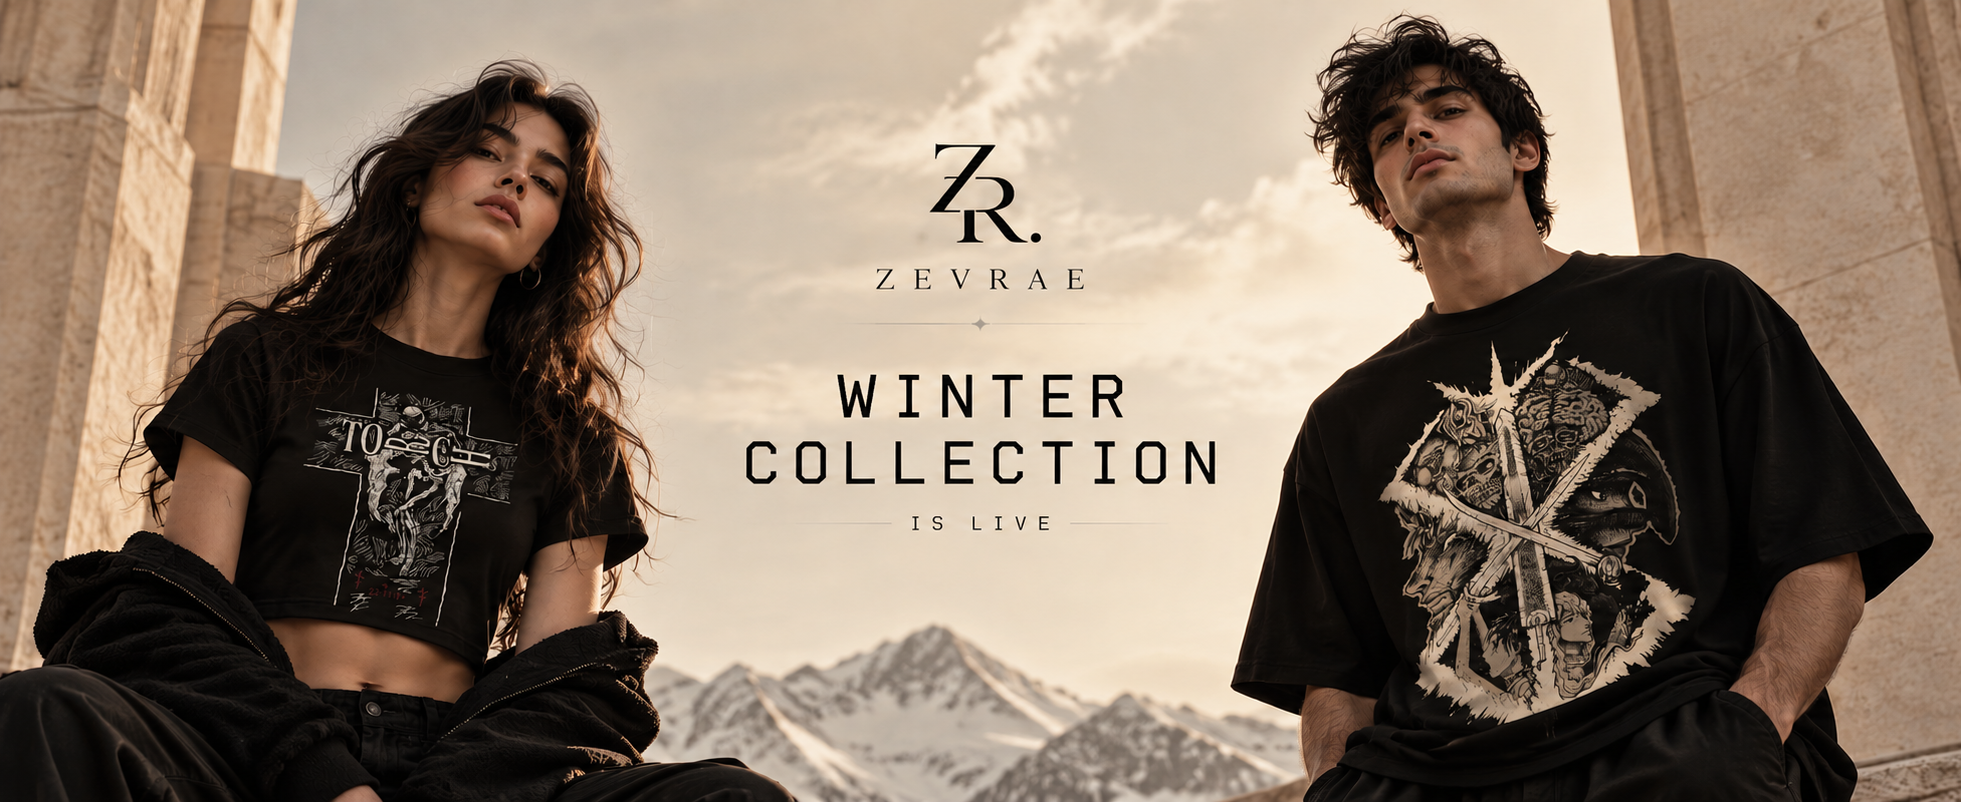
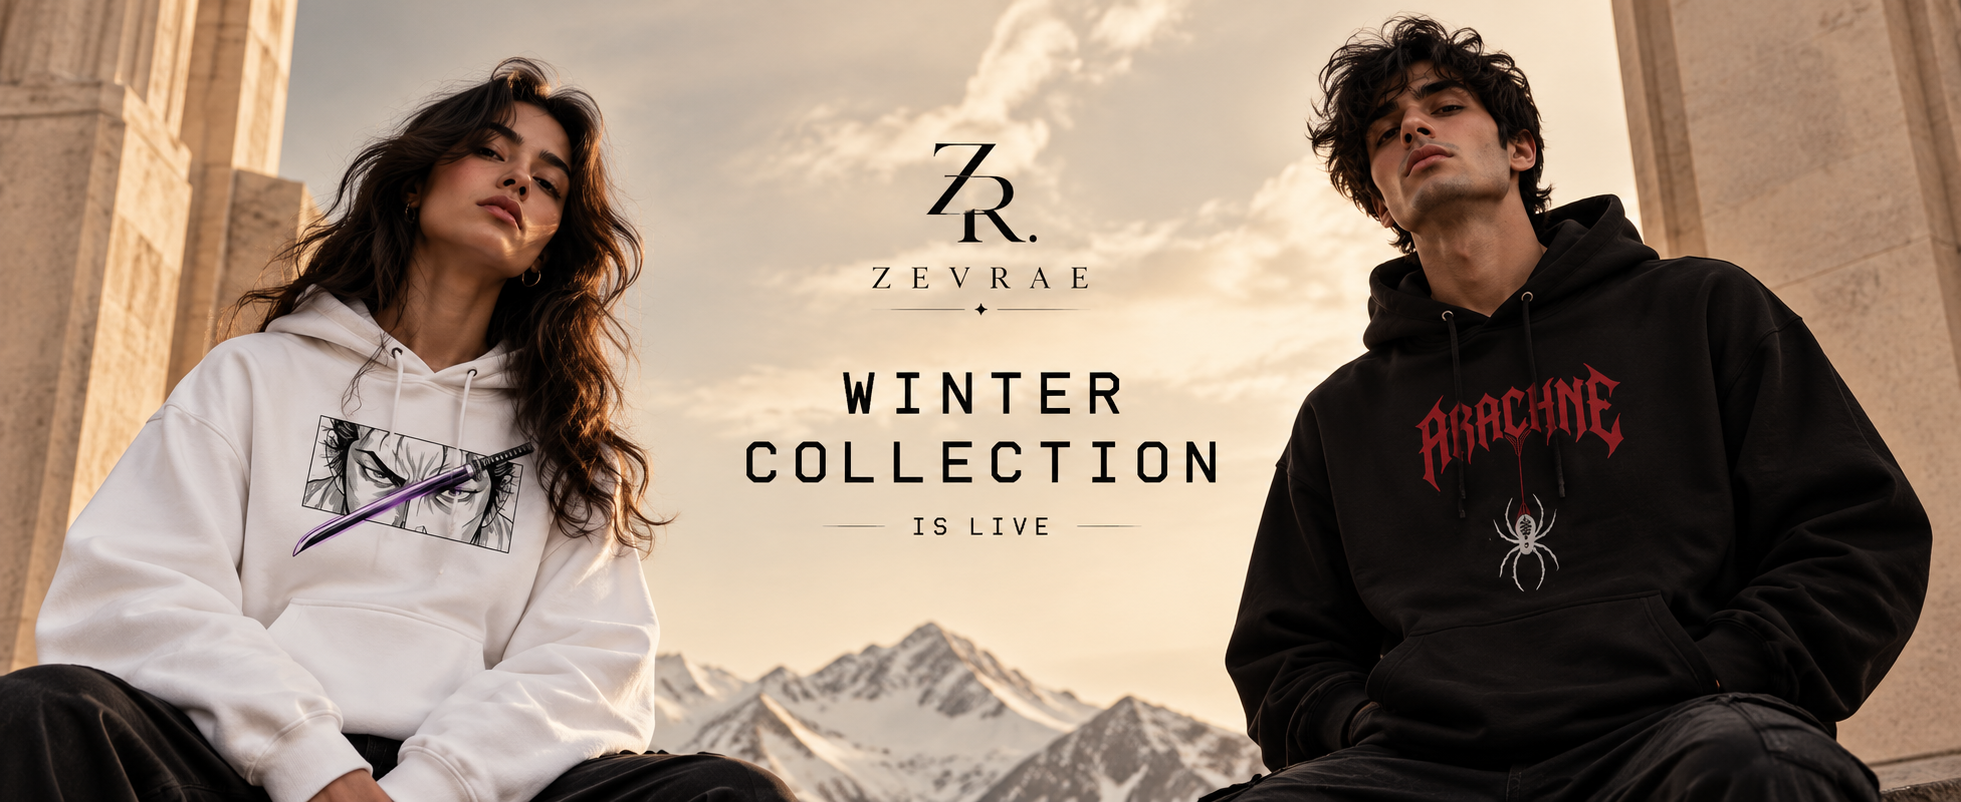
created hoodies product grid

diff --git a/src/ProductGrid.tsx b/src/ProductGrid.tsx
@@ -21,17 +21,21 @@ import menRingImg from "./assets/men ring.webp";
 import menPendantImg from "./assets/men pendant.webp";
 import menEarringsImg from "./assets/men earrings.webp";
 import menBraceletImg from "./assets/men bracelet.webp";
+import blackHoodieMen from "./assets/blackhoodiemen.png";
+import greyHoodieWomen from "./assets/greyhoodiewomen.png";
 
 const resolveImg = (img: any): string => (img && typeof img === 'object' && 'src' in img ? img.src : img || '');
 
 const mensCategories = [
   { id: 'tshirts', name: 'TSHIRTS', alt: "ZEVRAE men's T-shirts collection", image: menTshirts, path: '/men/tshirts' },
+  { id: 'hoodies', name: 'HOODIES', alt: "ZEVRAE men's hoodies collection", image: blackHoodieMen, path: '/men/hoodies' },
   { id: 'lowers', name: 'LOWERS', alt: "ZEVRAE men's lowers collection", image: 'https://i.ibb.co/RGyBrL7q/THE-DRAGON-LOWER-FRONT.jpg', path: '/men/lowers' },
   { id: 'henleys', name: 'HENLEYS', alt: "ZEVRAE men's henley collection", image: menHenley, path: '/men/henleys' },
 ];
 
 const womensCategories = [
   { id: 'tshirts', name: 'TSHIRTS', alt: "ZEVRAE women's tops and T-shirts", image: womenTops, path: '/women/tshirts' },
+  { id: 'hoodies', name: 'HOODIES', alt: "ZEVRAE women's hoodies collection", image: greyHoodieWomen, path: '/women/hoodies' },
   { id: 'lowers', name: 'LOWERS', alt: "ZEVRAE women's lowers collection", image: 'https://images.unsplash.com/photo-1506629082955-511b1aa562c8?q=80&w=1920&auto=format&fit=crop', path: '/women/lowers' }
 ];
 
@@ -202,7 +206,9 @@ export async function getOrFetchAllProducts(): Promise<any[]> {
             ? 'lower'
             : (p.subcategory?.toLowerCase()?.includes('henley')
               ? 'henley'
-              : (p.subcategory?.toLowerCase()?.includes('shirt') ? 'tshirt' : (p.subcategory?.toLowerCase() || 'tshirt'))),
+              : (p.subcategory?.toLowerCase()?.includes('hoodie')
+                ? 'hoodie'
+                : (p.subcategory?.toLowerCase()?.includes('shirt') ? 'tshirt' : (p.subcategory?.toLowerCase() || 'tshirt')))),
           sizes: p.sizes,
           discount: p.discount || (p.compare_price && p.compare_price > p.price
             ? Math.round(((p.compare_price - p.price) / p.compare_price) * 100)
@@ -235,7 +241,7 @@ export type ProductGridProps = {
   | 'all' | 'men' | 'women' | 'jewellery' | 'accessories' | '' | 'search'
   | 'rings' | 'pendants' | 'earrings' | 'bracelet' | 'keychain' | 'keychains'
   | 'toys' | 'soft-toys' | 'ear'
-  | 'men-tshirts' | 'men-lowers' | 'men-henleys' | 'women-tshirts' | 'women-lowers' | 'unisex'
+  | 'men-tshirts' | 'men-hoodies' | 'men-lowers' | 'men-henleys' | 'women-tshirts' | 'women-hoodies' | 'women-lowers' | 'unisex'
   | 'jewellery-men' | 'jewellery-women'
   | 'men-rings' | 'men-pendants' | 'men-bracelets' | 'men-earrings'
   | 'women-rings' | 'women-pendants' | 'women-bracelets' | 'women-earrings';
@@ -303,20 +309,26 @@ function ProductGridContent({
   const isMenFilter = categoryFilter.startsWith('men') && !categoryFilter.startsWith('men-rings') && !categoryFilter.startsWith('men-pendants') && !categoryFilter.startsWith('men-bracelets') && !categoryFilter.startsWith('men-earrings');
   const isTshirtFilter = categoryFilter.includes('tshirts');
   const isHenleyFilter = categoryFilter.includes('henleys');
+  const isHoodieFilter = categoryFilter.includes('hoodies');
 
   const getApparelType = useCallback(() => {
     if (isTshirtFilter) return 'tshirt';
     if (isHenleyFilter) return 'henley';
+    if (isHoodieFilter) return 'hoodie';
     return 'lower';
-  }, [isTshirtFilter, isHenleyFilter]);
+  }, [isTshirtFilter, isHenleyFilter, isHoodieFilter]);
 
   const activeSubcategoryProducts = useMemo(() => {
     const apparelType = getApparelType();
     return dbProducts.filter(p =>
       (p.gender === (isMenFilter ? 'men' : 'women') || p.gender === 'unisex') &&
-      (isHenleyFilter ? (p.type === 'henley' || p.type === 'henleys') : p.type === apparelType)
+      (isHenleyFilter
+        ? (p.type === 'henley' || p.type === 'henleys')
+        : isHoodieFilter
+          ? (p.type === 'hoodie' || p.type === 'hoodies')
+          : p.type === apparelType)
     );
-  }, [dbProducts, isMenFilter, isHenleyFilter, getApparelType]);
+  }, [dbProducts, isMenFilter, isHenleyFilter, isHoodieFilter, getApparelType]);
 
   // ─── Gendered jewellery helpers ───────────────────────────────────────────────
   const JEWELLERY_MEN_SUBS = useMemo(() => ['men-rings', 'men-pendants', 'men-bracelets', 'men-earrings'], []);
@@ -373,20 +385,20 @@ function ProductGridContent({
           >
             <SectionHeading eyebrow="LATEST DROPS" title="Men's Collection" />
             <div className="max-w-[1400px] mx-auto px-6 md:px-12">
-              <div className="grid grid-cols-1 sm:grid-cols-3 gap-5 md:gap-6">
+              <div className="grid grid-cols-1 sm:grid-cols-2 lg:grid-cols-4 gap-5 md:gap-6">
                 {mensCategories.map((item, i) => (
                   <motion.div
                     key={item.id}
                     initial={{ opacity: 0, y: 30 }}
                     whileInView={{ opacity: 1, y: 0 }}
                     viewport={{ once: true, margin: "-50px" }}
-                    transition={{ duration: 0.8, delay: (i % 3) * 0.1, ease: [0.25, 0.1, 0.25, 1] }}
+                    transition={{ duration: 0.8, delay: (i % 4) * 0.1, ease: [0.25, 0.1, 0.25, 1] }}
                     className="group relative flex flex-col cursor-pointer"
                     onMouseEnter={() => router.prefetch(item.path)}
                     onClick={() => router.push(item.path)}
                   >
                     <div className="relative w-full aspect-[3/4] mb-4 bg-[var(--theme-surface)] rounded-sm overflow-hidden transition-all duration-700 ease-out group-hover:-translate-y-1 group-hover:shadow-[0_6px_24px_-8px_rgba(var(--theme-accent-rgb),0.2)]" data-cursor-image>
-                      <Image src={resolveImg(item.image)} alt={item.alt || item.name} fill sizes="(max-width: 768px) 100vw, 33vw" className="object-cover transition-[transform,opacity] duration-700 ease-out group-hover:scale-105 opacity-90 group-hover:opacity-100" referrerPolicy="no-referrer" />
+                      <Image src={resolveImg(item.image)} alt={item.alt || item.name} fill sizes="(max-width: 640px) 100vw, (max-width: 1024px) 50vw, 25vw" className="object-cover transition-[transform,opacity] duration-700 ease-out group-hover:scale-105 opacity-90 group-hover:opacity-100" referrerPolicy="no-referrer" />
                       <div className="absolute inset-0 bg-[rgba(var(--theme-bg-rgb),0.45)] group-hover:bg-[rgba(var(--theme-bg-rgb),0.2)] transition-colors duration-500" />
                       <div className="absolute inset-0 flex items-center justify-center">
                         <h3 className="text-xl md:text-2xl font-archivo font-bold tracking-[0.2em] text-[var(--theme-text)] uppercase">{item.name}</h3>
@@ -407,8 +419,8 @@ function ProductGridContent({
           </motion.section>
         )}
 
-        {/* ── GENDERED SUBCATEGORIES (MEN/WOMEN TSHIRTS, LOWERS & HENLEYS) ── */}
-        {['men-tshirts', 'men-lowers', 'men-henleys', 'women-tshirts', 'women-lowers'].includes(categoryFilter) && (
+        {/* ── GENDERED SUBCATEGORIES (MEN/WOMEN TSHIRTS, HOODIES, LOWERS & HENLEYS) ── */}
+        {['men-tshirts', 'men-hoodies', 'men-lowers', 'men-henleys', 'women-tshirts', 'women-hoodies', 'women-lowers'].includes(categoryFilter) && (
           <motion.section
             key="gendered-category"
             initial={{ opacity: 0, y: 16 }}
@@ -420,7 +432,7 @@ function ProductGridContent({
           >
             <SectionHeading
               eyebrow={isMenFilter ? "MEN'S COLLECTION" : "WOMEN'S COLLECTION"}
-              title={`${isMenFilter ? "MEN'S" : "WOMEN'S"} ${isTshirtFilter ? 'TSHIRTS' : isHenleyFilter ? 'HENLEYS' : 'LOWERS'}`}
+              title={`${isMenFilter ? "MEN'S" : "WOMEN'S"} ${isTshirtFilter ? 'TSHIRTS' : isHenleyFilter ? 'HENLEYS' : isHoodieFilter ? 'HOODIES' : 'LOWERS'}`}
             />
             <div className="max-w-[1400px] mx-auto px-6 md:px-12">
               {isLoading ? (
@@ -453,23 +465,23 @@ function ProductGridContent({
           >
             <SectionHeading eyebrow="NEW ARRIVALS" title="Women's Collection" />
             <div className="max-w-[1400px] mx-auto px-6 md:px-12">
-              <div className="flex flex-col md:flex-row flex-wrap justify-center gap-[36px] items-center">
+              <div className="grid grid-cols-1 sm:grid-cols-2 md:grid-cols-3 gap-5 md:gap-6">
                 {womensCategories.map((item, i) => (
                   <motion.div
                     key={item.id}
                     initial={{ opacity: 0, y: 30 }}
                     whileInView={{ opacity: 1, y: 0 }}
                     viewport={{ once: true, margin: "-50px" }}
-                    transition={{ duration: 0.8, delay: (i % 2) * 0.1, ease: [0.25, 0.1, 0.25, 1] }}
-                    className="w-full md:w-[460px] max-w-[460px] group relative flex flex-col cursor-pointer"
+                    transition={{ duration: 0.8, delay: (i % 3) * 0.1, ease: [0.25, 0.1, 0.25, 1] }}
+                    className="group relative flex flex-col cursor-pointer"
                     onMouseEnter={() => router.prefetch(item.path)}
                     onClick={() => router.push(item.path)}
                   >
-                    <div className="relative w-full aspect-[3/4] min-h-[540px] mb-6 bg-[var(--theme-surface)] rounded-sm overflow-hidden transition-all duration-700 ease-out group-hover:-translate-y-1 group-hover:shadow-[0_6px_24px_-8px_rgba(var(--theme-accent-rgb),0.2)]" data-cursor-image>
-                      <Image src={resolveImg(item.image)} alt={item.alt || item.name} fill sizes="(max-width: 768px) 100vw, 460px" className="object-cover transition-[transform,opacity] duration-700 ease-out group-hover:scale-105 opacity-90 group-hover:opacity-100" referrerPolicy="no-referrer" />
+                    <div className="relative w-full aspect-[3/4] mb-4 bg-[var(--theme-surface)] rounded-sm overflow-hidden transition-all duration-700 ease-out group-hover:-translate-y-1 group-hover:shadow-[0_6px_24px_-8px_rgba(var(--theme-accent-rgb),0.2)]" data-cursor-image>
+                      <Image src={resolveImg(item.image)} alt={item.alt || item.name} fill sizes="(max-width: 640px) 100vw, (max-width: 1024px) 50vw, 33vw" className="object-cover transition-[transform,opacity] duration-700 ease-out group-hover:scale-105 opacity-90 group-hover:opacity-100" referrerPolicy="no-referrer" />
                       <div className="absolute inset-0 bg-[rgba(var(--theme-bg-rgb),0.45)] group-hover:bg-[rgba(var(--theme-bg-rgb),0.2)] transition-colors duration-500" />
                       <div className="absolute inset-0 flex items-center justify-center">
-                        <h3 className="text-3xl font-archivo font-bold tracking-[0.2em] text-[var(--theme-text)] uppercase">{item.name}</h3>
+                        <h3 className="text-xl md:text-2xl font-archivo font-bold tracking-[0.2em] text-[var(--theme-text)] uppercase">{item.name}</h3>
                       </div>
                     </div>
                   </motion.div>

diff --git a/src/config/seo.ts b/src/config/seo.ts
@@ -23,6 +23,12 @@ export const SEO_CONFIG = {
       "Discover ZEVRAE's men's lowers collection, designed with a contemporary luxury aesthetic.",
   },
 
+  '/men/hoodies': {
+    title: "Men's Hoodies | ZEVRAE",
+    description:
+      "Explore ZEVRAE's men's hoodie collection featuring contemporary luxury designs and premium comfort.",
+  },
+
   '/women': {
     title: "Women's Collection | ZEVRAE",
     description:
@@ -39,6 +45,12 @@ export const SEO_CONFIG = {
     title: "Women's Lowers | ZEVRAE",
     description:
       "Discover ZEVRAE's women's lowers collection, designed with a contemporary luxury aesthetic.",
+  },
+
+  '/women/hoodies': {
+    title: "Women's Hoodies | ZEVRAE",
+    description:
+      "Explore ZEVRAE's women's hoodie collection featuring contemporary luxury designs and premium comfort.",
   },
 
   '/jewellery': {

diff --git a/app/sitemap.ts b/app/sitemap.ts
@@ -6,10 +6,12 @@ const STATIC_ROUTES = [
   '',
   '/men',
   '/men/tshirts',
+  '/men/hoodies',
   '/men/lowers',
   '/men/henleys',
   '/women',
   '/women/tshirts',
+  '/women/hoodies',
   '/women/lowers',
   '/jewellery',
   '/jewellery/men',
